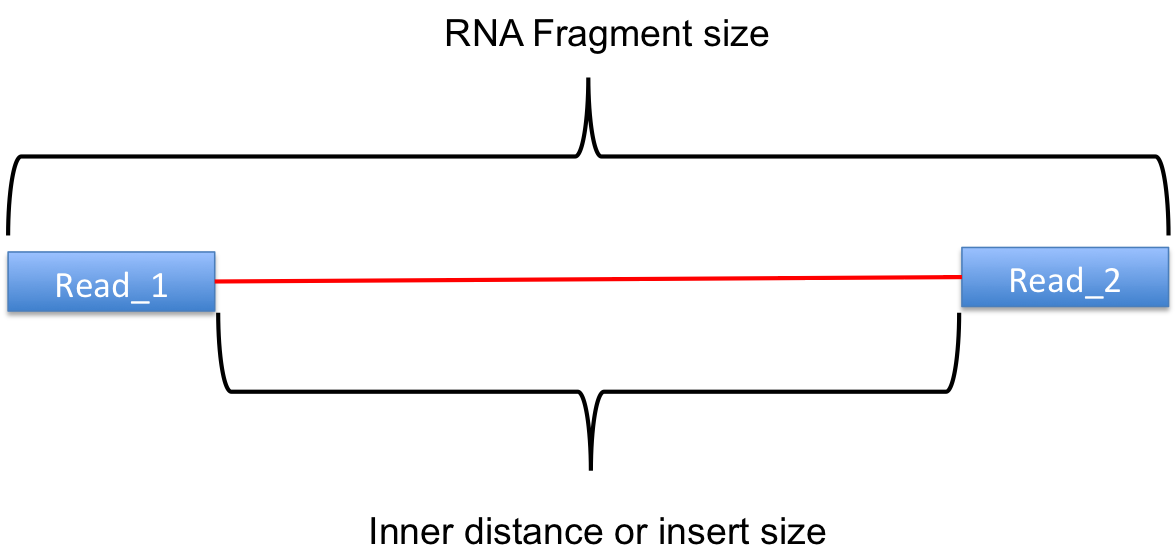
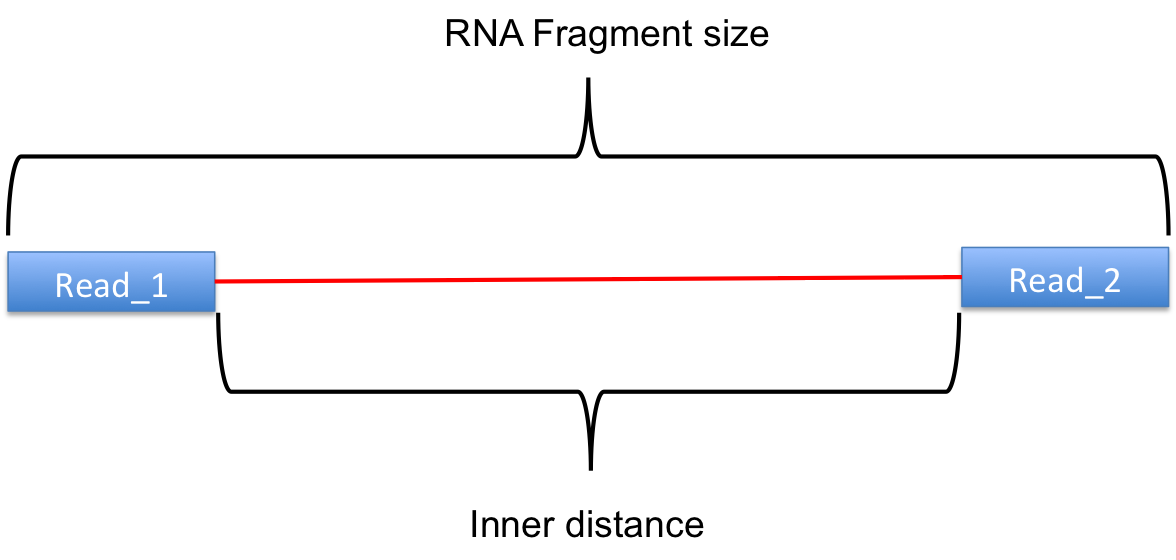
Clarified the use of 'inner distance' vs 'insert size'

Changed region(s): [[0.3061, 0.9107, 0.7041, 0.9714]]

diff --git a/docs/output.md b/docs/output.md
@@ -193,19 +193,20 @@ RSeQC documentation: [read_duplication.py](http://rseqc.sourceforge.net/#read-du
 * `Sample_rseqc.inner_distance_freq.txt`
 * `Sample_rseqc.inner_distance_plot.r`
 
-The inner distance script tries to calculate the inner distance (or insert size) between two paired RNA reads. This is calculated as the start of read 1 to the end of read 2:
+The inner distance script tries to calculate the inner distance between two paired RNA reads. It is the distance between the end of read 1 to the start of read 2, 
+and it is sometimes confused with the insert size (see [this blog post](http://thegenomefactory.blogspot.com.au/2013/08/paired-end-read-confusion-library.html) for disambiguation):
 ![inner distance concept](images/inner_distance_concept.png)
-> _Credit: RSeQC documentation._
+> _Credit: modified from RSeQC documentation._
 
 Note that values can be negative if the reads overlap. A typical set of samples may look like this:
 ![Inner distance](images/rseqc_inner_distance_plot.png)
 
-This plot will not be generated for single-end data. Very short insert sizes are often seen in old or degraded samples (_eg._ FFPE).
+This plot will not be generated for single-end data. Very short inner distances are often seen in old or degraded samples (_eg._ FFPE).
 
 RSeQC documentation: [inner_distance.py](http://rseqc.sourceforge.net/#inner-distance-py)
 
 ### Gene body coverage
-**NB:** In nfcore/RNAseq we subsample this to 1 Million reads. This speeds up the speed significantly and has no to little effect on the results.
+**NB:** In nfcore/RNAseq we subsample this to 1 Million reads. This speeds up this task significantly and has no to little effect on the results.
 
 **Output:**
 
